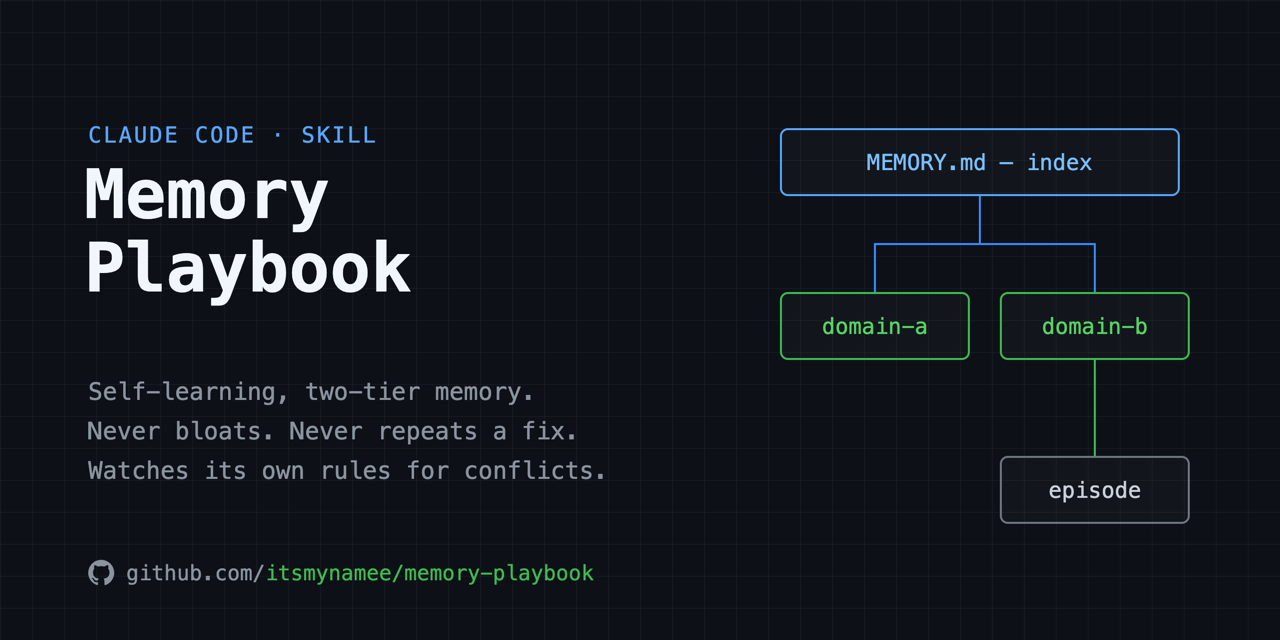
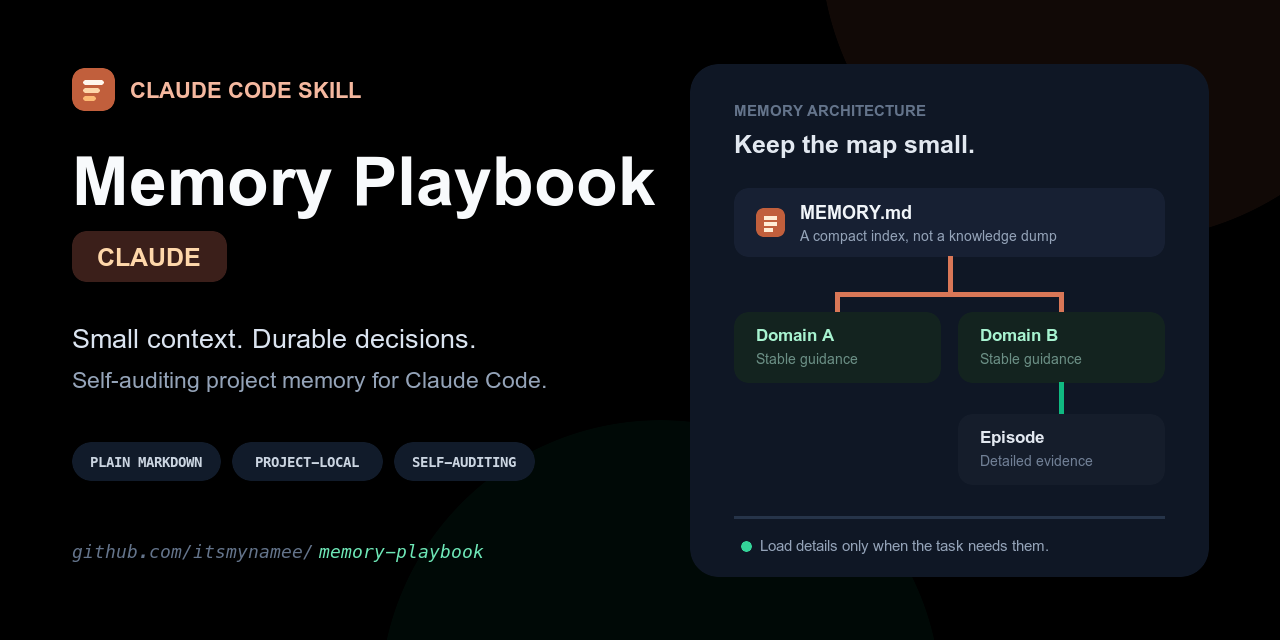
docs: align project presentation

diff --git a/README.md b/README.md
@@ -1,66 +1,54 @@
 # Memory Playbook
 
-A Claude Code skill that stops `MEMORY.md` from turning into soup, stops you from
-correcting the same mistake twice, and keeps watch over its own rules so nothing quietly
-contradicts itself.
+[![License: MIT](https://img.shields.io/badge/License-MIT-blue.svg)](LICENSE)
+[![Agent: Claude Code](https://img.shields.io/badge/agent-Claude_Code-D97757.svg?logo=anthropic&logoColor=white)](https://github.com/anthropics/claude-code)
 
-**Is this for you?** If you run long, multi-session Claude Code projects and you're tired of
-watching memory bloat until it gets compacted and loses the nuance — or tired of saying "fix
-it everywhere, not just here" every single time — yes. If you want a fully automatic,
-zero-setup background memory, you probably want [claude-mem](https://github.com/thedotmack/claude-mem)
-instead; this is the opposite bet — manual, transparent, plain markdown, nothing hidden.
+**Transparent, self-auditing project memory for Claude Code that stays small and preserves durable lessons.**
 
-## The problem
+Memory Playbook keeps project knowledge in plain Markdown. A compact index
+routes Claude to one relevant domain at a time; detailed incidents and decisions
+live in linked episode files instead of bloating `MEMORY.md`.
 
-1. **The compaction death spiral.** A single `MEMORY.md` holding running status grows until
-   it hits the read limit, gets compacted, loses detail, grows again.
-2. **Repeating the same correction.** You catch a bug on one page, ask for a fix, and the
-   same bug is still sitting on three other pages next week — because the lesson died with
-   the conversation instead of becoming a standing check.
+Looking for the Codex edition? Use [Memory Playbook CX](https://github.com/itsmynamee/memory-playbook-cx).
 
-## Before / after
+## Why Memory Playbook
 
-```
-before:
+- **Small context footprint:** `MEMORY.md` contains rules and a domain map, never
+  live status.
+- **Durable decisions:** incidents, migrations, and interrupted work live in
+  linked episode files.
+- **Self-learning playbook:** owner corrections become reusable lessons and
+  pre-ship checks instead of disappearing with the conversation.
+- **Root-cause discipline:** recurring bug classes are fixed across the relevant
+  codebase and recorded once for future work.
+- **Self-checking rules:** Audit identifies contradictions, stale guidance, and
+  duplicate sources of truth.
+- **Deterministic discovery:** setup plants a small pointer in the project's
+  `CLAUDE.md` so future sessions find the domain map.
+- **Migration support:** existing flat or bloated memory is reorganized without
+  dropping protected rules or orphaned files.
+- **Plain files:** everything remains readable, diffable, portable, and
+  reviewable in Git.
+
+## How it works
+
+```text
 memory/
-└── MEMORY.md              # 47 KB, everything mixed together, gets compacted, loses detail
-
-after:
-memory/
-├── MEMORY.md               # index only — rules + domain map, stays a few KB forever
-├── project-map.md          # stable facts: what the project IS
-├── playbook.md             # self-learning: corrections → lessons → pre-ship checks
-├── domain-payments.md      # live status for one work area
-├── domain-admin-ui.md
-└── 2026-03-05-webhook-retry-fix.md   # full episode detail, unlimited size, never deleted
+├── MEMORY.md          # rules + domain map only
+├── project-map.md     # stable project facts
+├── playbook.md        # corrections → lessons → pre-ship checks
+├── domain-payments.md # current status + episode pointers
+├── domain-ui.md
+└── 2026-03-05-webhook-retry-fix.md
 ```
 
-## What you get
-
-- **Two-tier index** — `MEMORY.md` never holds status, so it never bloats. A session working
-  on payments loads only the payments domain.
-- **Self-learning playbook** — every owner correction becomes a recorded lesson in the same
-  turn, replayed via a mandatory pre-ship self-review before every "done".
-- **Bug discipline that composes with `systematic-debugging`** — root-cause first, fix, sweep
-  the whole codebase for the same class, fix every instance, record it. Never "fixed the
-  button on one page, left the other three broken."
-- **Memory that audits itself** — every time a rule is saved it's checked against the rules it
-  could contradict, and the owner is told in plain language the moment two of them disagree —
-  with a recommended fix, their call. An on-demand Audit sweeps the whole store at once for
-  contradictions, stale rules (the reason behind them is gone), and duplicates. Change a rule on
-  purpose and it won't nag you about it — intentional overrides are recorded, not re-flagged.
-  No competing memory tool reasons about whether your rules still *agree* with each other.
-- **`check_memory.sh`** — one command that catches orphaned files, naming collisions, and
-  size overruns before they become a mess (structure); Audit is its meaning-level sibling.
-- **Deterministic, not best-effort** — plants a one-line pointer in your project's `CLAUDE.md`
-  during setup, so future sessions check for the domain map instead of relying on the skill
-  happening to match.
-- **Migration mode** — already have a bloated `MEMORY.md`? It reorganizes into domains without
-  dropping anything, orphans included.
+Claude opens only the domain relevant to the task, then follows episode links
+when full detail is needed. `check_memory.sh` verifies the file graph and naming
+rules; Audit handles meaning-level conflicts that require judgment.
 
 ## Install
 
-Global (available in every project):
+Global, available in every project:
 
 ```bash
 git clone https://github.com/itsmynamee/memory-playbook.git ~/.claude/skills/memory-playbook
@@ -72,38 +60,74 @@ Project-only:
 git clone https://github.com/itsmynamee/memory-playbook.git .claude/skills/memory-playbook
 ```
 
-Then just keep working. On a fresh project it bootstraps memory from what it can read off
-your repo; on a project with an already-bloated `MEMORY.md` it migrates instead of starting
-over. Ask for it explicitly any time: *"set up memory for this project."*
+Then ask Claude to set up memory for the project. On a fresh project the skill
+bootstraps the smallest useful store; when memory already exists, it migrates the
+current content instead of starting over.
 
-**Updating:** it's a plain git clone, not a managed install — there's no auto-update. Pull
-the latest whenever you want it:
+Updates are manual because the installation is a plain Git clone:
 
 ```bash
 git -C ~/.claude/skills/memory-playbook pull
 ```
 
-## Why not just use Auto Memory / Auto Dream / claude-mem?
+## Modes
 
-- **Claude Code's native Auto Memory / Auto Dream** are heading the same direction (index +
-  topic files, automatic consolidation) — great once fully rolled out. This works today, and
-  every file stays plain, readable, git-diffable markdown you can inspect and edit yourself,
-  not a black box.
-- **[claude-mem](https://github.com/thedotmack/claude-mem)** is bigger and fully automatic —
-  SQLite + vector search, zero-touch capture. If you want hands-off, use it. This is for when
-  you'd rather see and control exactly what gets remembered.
-- **Cline-style memory banks** popularized "markdown files as an external brain" for other
-  tools. This is the Claude Code-native version, with an actual self-learning loop and an
-  integrity check on top, not just a file convention.
+| Mode | Use it when | Result |
+| --- | --- | --- |
+| Bootstrap | The project has no durable memory | Creates the smallest useful store and a `CLAUDE.md` pointer |
+| Migration | Existing memory is flat or bloated | Reorganizes it without dropping protected rules or orphaned files |
+| Learning | The owner corrects a recurring mistake | Records a reusable lesson and pre-ship check |
+| Audit | Rules may conflict, duplicate, or be stale | Reports semantic problems and recommends a resolution |
+| Integrity check | The memory graph may be broken | Finds orphaned files, naming collisions, and size overruns |
 
-## What this is NOT
+## Example prompts
 
-- Not a vector database or semantic search — matching is exact links (`[[name]]` / `name.md`),
-  checked by a plain bash script.
-- Not fully automatic — Claude follows this protocol explicitly; nothing runs in the
-  background.
-- Not a replacement for git history — episode files record decisions and reasoning, not diffs.
+```text
+Set up memory for this project.
+Migrate this bloated MEMORY.md without losing anything.
+Audit our saved rules for contradictions and stale guidance.
+Save this correction as a reusable lesson for future work.
+```
+
+## Safety boundaries
+
+- Memory stays in transparent project Markdown, not a database or hidden
+  background service.
+- Setup changes the project pointer deliberately; it does not depend on the
+  skill matching by chance in every future session.
+- Audit reports contradictions and lets the owner decide how to resolve them.
+- Episode files preserve decisions and reasoning, not Git diffs or raw chat
+  transcripts.
+- The workflow is explicit, not a zero-touch capture system.
+
+## Integrity check
+
+```bash
+bash scripts/check_memory.sh <memory-dir>
+```
+
+The checker rejects orphaned Markdown files and fake `domain-*` indexes, and
+warns when index files exceed their intended size. Audit remains responsible
+for semantic conflicts because those require judgment.
+
+## Alternatives
+
+- **Claude Code Auto Memory / Auto Dream** follows a similar index-and-topic
+  direction with automatic consolidation. Memory Playbook is the transparent,
+  project-controlled option.
+- **[claude-mem](https://github.com/thedotmack/claude-mem)** provides automatic
+  SQLite and vector-search capture. Choose it when hands-off collection matters
+  more than explicit Markdown control.
+- **Cline-style memory banks** established Markdown files as an external brain;
+  Memory Playbook adds a self-learning loop, semantic Audit, and structural
+  integrity checking.
+
+## Scope
+
+Memory Playbook is not a vector database, semantic-search system, background
+daemon, or replacement for Git history. It is a Claude Code workflow for small,
+inspectable project memory with durable decisions and explicit owner control.
 
 ## License
 
-MIT — see [LICENSE](LICENSE).
+[MIT](LICENSE) © 2026 itsmynamee